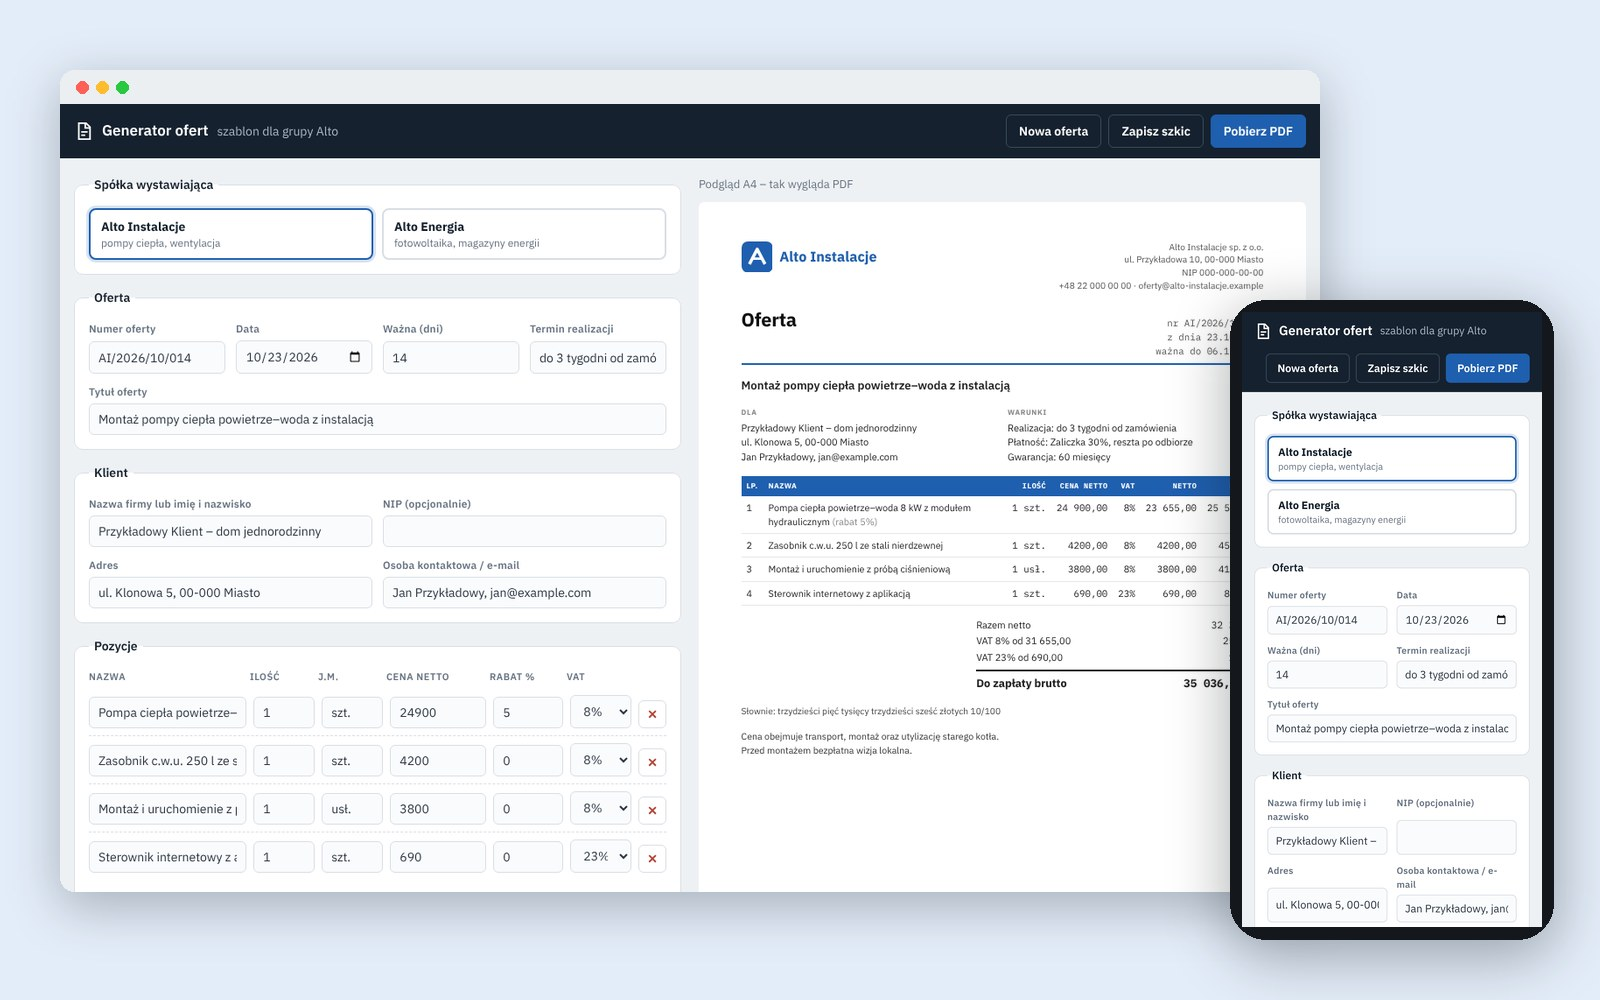
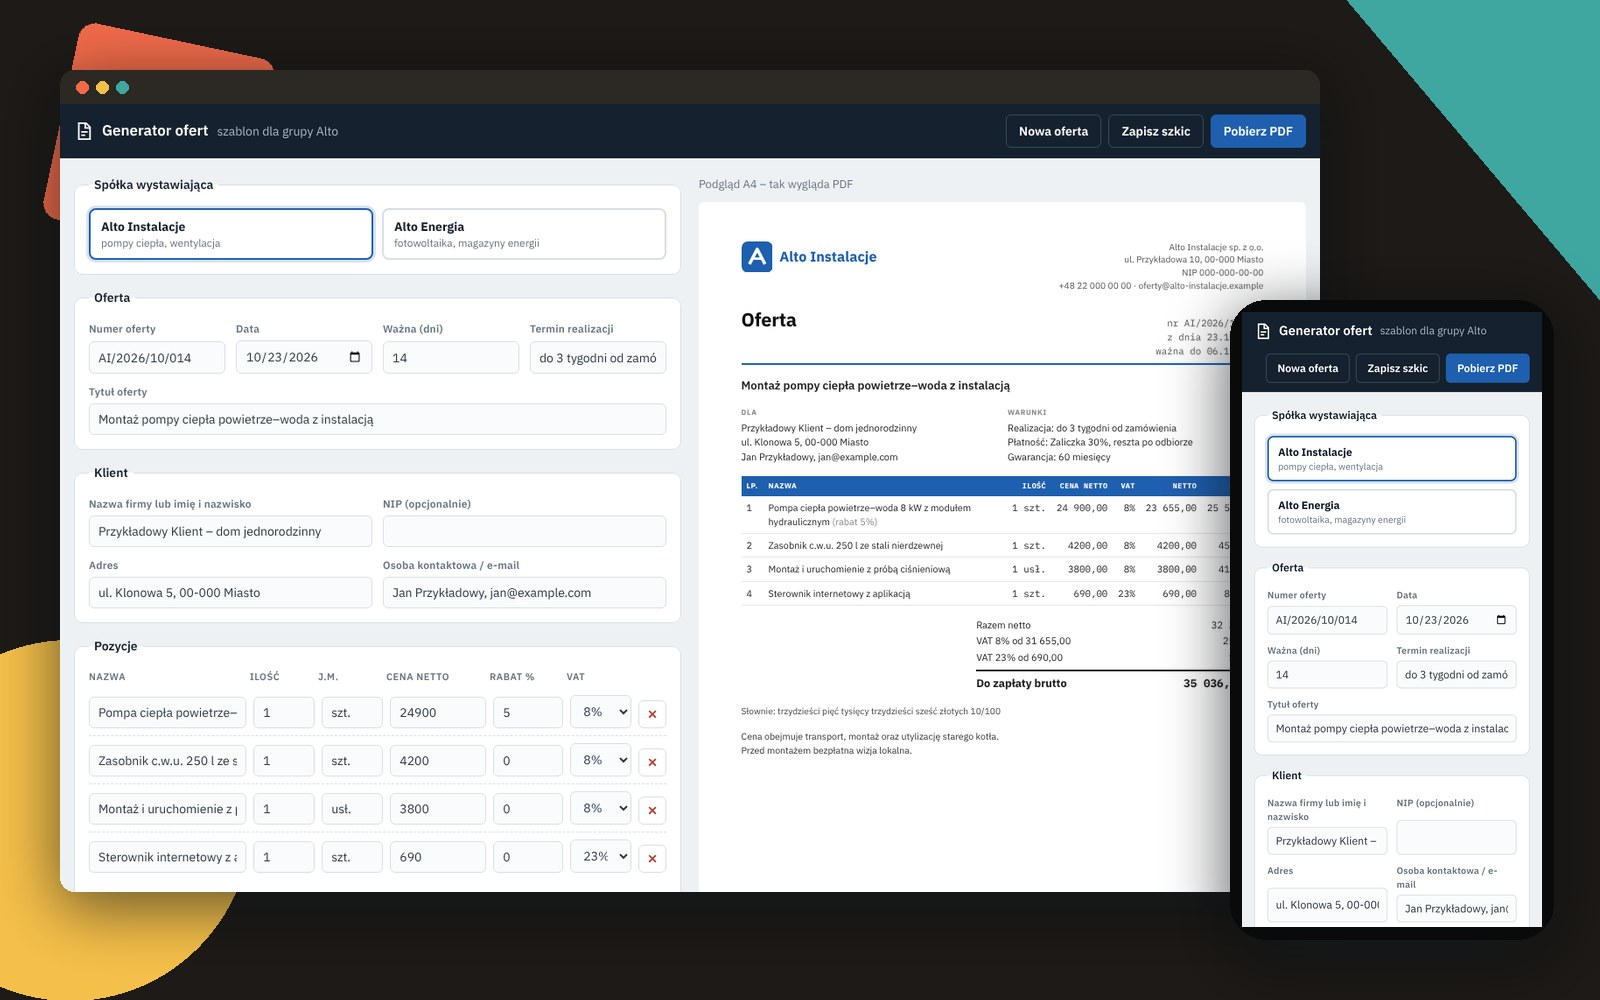
Nowa szata graficzna strony portfolio

Changed region(s): [[0.0, 0.0, 1.0, 1.0]]

diff --git a/index.html b/index.html
@@ -7,38 +7,50 @@
 <meta name="description" content="Projekty pokazowe: strony internetowe, aplikacje webowe i narzędzia dla firm.">
 <link rel="preconnect" href="https://fonts.googleapis.com">
 <link rel="preconnect" href="https://fonts.gstatic.com" crossorigin>
-<link rel="stylesheet" href="https://fonts.googleapis.com/css2?family=Bricolage+Grotesque:opsz,wght@12..96,700&family=Hanken+Grotesk:wght@400;500;600&display=swap">
+<link rel="stylesheet" href="https://fonts.googleapis.com/css2?family=Outfit:wght@600;700&family=Figtree:wght@400;500;600&display=swap">
 <style>
-:root { --navy: #12304A; --amber: #F2A33A; --bg: #F5F6F8; --text: #1C2733; --muted: #5E6B78; --line: #DCE1E7; }
+:root { --ink: #1D1A17; --paper: #F7F3EE; --coral: #F06A4A; --sun: #F5C04A; --teal: #3FA7A0; --text: #24201C; --muted: #6B6259; --line: #E6DED4; }
 * { box-sizing: border-box; }
-body { margin: 0; background: var(--bg); color: var(--text); font-family: "Hanken Grotesk", system-ui, sans-serif; font-size: 17px; line-height: 1.55; }
+body { margin: 0; background: var(--paper); color: var(--text); font-family: "Figtree", system-ui, sans-serif; font-size: 17px; line-height: 1.55; }
 .wrap { max-width: 1080px; margin: 0 auto; padding-left: max(20px, env(safe-area-inset-left, 0px)); padding-right: max(20px, env(safe-area-inset-right, 0px)); }
-header { padding-block: 56px 32px; display: grid; gap: 14px; }
-.mono { width: 52px; height: 52px; border-radius: 50%; background: var(--navy); color: #fff; display: grid; place-items: center; font: 700 26px "Bricolage Grotesque", sans-serif; position: relative; }
-.mono::after { content: ""; position: absolute; bottom: 12px; width: 16px; height: 3px; border-radius: 2px; background: var(--amber); }
-h1, h2 { font-family: "Bricolage Grotesque", "Hanken Grotesk", sans-serif; color: var(--navy); margin: 0; line-height: 1.1; text-wrap: balance; }
-h1 { font-size: clamp(32px, 5vw, 48px); }
-h2 { font-size: 24px; }
-header p { color: var(--muted); max-width: 60ch; margin: 0; }
-.list { display: grid; gap: 28px; padding-bottom: 56px; }
+.hero { background: var(--ink); color: #F4EFE8; position: relative; overflow: hidden; }
+.hero .wrap { position: relative; z-index: 1; padding-block: 56px 48px; display: grid; gap: 14px; }
+.shape { position: absolute; display: block; }
+.s1 { width: 220px; height: 220px; border-radius: 50%; background: var(--coral); right: -40px; top: -70px; }
+.s2 { width: 120px; height: 120px; border-radius: 12px; background: var(--sun); right: 150px; bottom: -40px; transform: rotate(14deg); }
+.s3 { width: 0; height: 0; border-left: 46px solid transparent; border-right: 46px solid transparent; border-bottom: 80px solid var(--teal); right: 300px; top: 30px; }
+.mark { width: 52px; height: 52px; border-radius: 50%; background: #2A2622; position: relative; }
+.mark i { position: absolute; display: block; }
+.mark .c { width: 20px; height: 20px; border-radius: 50%; background: var(--coral); left: 11px; top: 11px; }
+.mark .q { width: 17px; height: 17px; border-radius: 3px; background: var(--sun); left: 24px; top: 21px; transform: rotate(14deg); }
+.mark .t { width: 0; height: 0; border-left: 10px solid transparent; border-right: 10px solid transparent; border-bottom: 17px solid var(--teal); left: 9px; top: 26px; }
+h1, h2 { font-family: "Outfit", "Figtree", sans-serif; margin: 0; line-height: 1.1; text-wrap: balance; }
+h1 { font-size: clamp(32px, 5vw, 46px); max-width: 18ch; }
+.hero p { color: #D8D0C6; max-width: 60ch; margin: 0; }
+.hero p b { color: var(--sun); font-weight: 600; }
+h2 { font-size: 24px; color: var(--ink); }
+.list { display: grid; gap: 28px; padding-block: 40px 56px; }
 article { background: #fff; border: 1px solid var(--line); border-radius: 14px; overflow: hidden; display: grid; grid-template-columns: 1.3fr 1fr; }
-article img { width: 100%; height: 100%; object-fit: cover; display: block; }
+article img { width: 100%; height: 100%; object-fit: cover; display: block; background: var(--ink); }
 .body { padding: 26px; display: grid; gap: 12px; align-content: start; }
 .body p { margin: 0; color: var(--muted); }
 .tags { display: flex; flex-wrap: wrap; gap: 6px; }
-.tags span { font-size: 13px; font-weight: 600; padding: 3px 10px; border-radius: 999px; background: var(--bg); color: var(--navy); }
-a.btn { justify-self: start; margin-top: 6px; display: inline-block; padding: 11px 18px; border-radius: 8px; background: var(--navy); color: #fff; text-decoration: none; font-weight: 600; }
-a.btn:hover { background: #1D4C72; }
-a.btn:focus-visible { outline: 3px solid var(--amber); outline-offset: 2px; }
+.tags span { font-size: 13px; font-weight: 600; padding: 3px 10px; border-radius: 999px; background: var(--paper); color: var(--ink); border: 1px solid var(--line); }
+a.btn { justify-self: start; margin-top: 6px; display: inline-block; padding: 11px 18px; border-radius: 8px; background: var(--ink); color: #fff; text-decoration: none; font-weight: 600; }
+a.btn:hover { background: #3A332C; }
+a.btn:focus-visible { outline: 3px solid var(--coral); outline-offset: 2px; }
 footer { color: var(--muted); font-size: 14px; padding-bottom: 32px; }
-@media (max-width: 780px) { article { grid-template-columns: 1fr; } }
+@media (max-width: 780px) { article { grid-template-columns: 1fr; } .s3 { display: none; } }
 </style>
 </head>
 <body>
-<header class="wrap">
-  <div class="mono" aria-hidden="true">M</div>
-  <h1>Strony i aplikacje, które oszczędzają czas</h1>
-  <p>Maciej, student informatyki algorytmicznej. Poniżej projekty pokazowe – marki i dane są fikcyjne, wszystko działa w przeglądarce.</p>
+<header class="hero">
+  <i class="shape s1" aria-hidden="true"></i><i class="shape s2" aria-hidden="true"></i><i class="shape s3" aria-hidden="true"></i>
+  <div class="wrap">
+    <div class="mark" aria-hidden="true"><i class="c"></i><i class="q"></i><i class="t"></i></div>
+    <h1>Strony, aplikacje, teksty i 3D</h1>
+    <p>Maciej, student informatyki algorytmicznej. Poniżej <b>projekty pokazowe</b> – marki i dane są fikcyjne, wszystko działa w przeglądarce.</p>
+  </div>
 </header>
 <main class="wrap list">
   <article>
